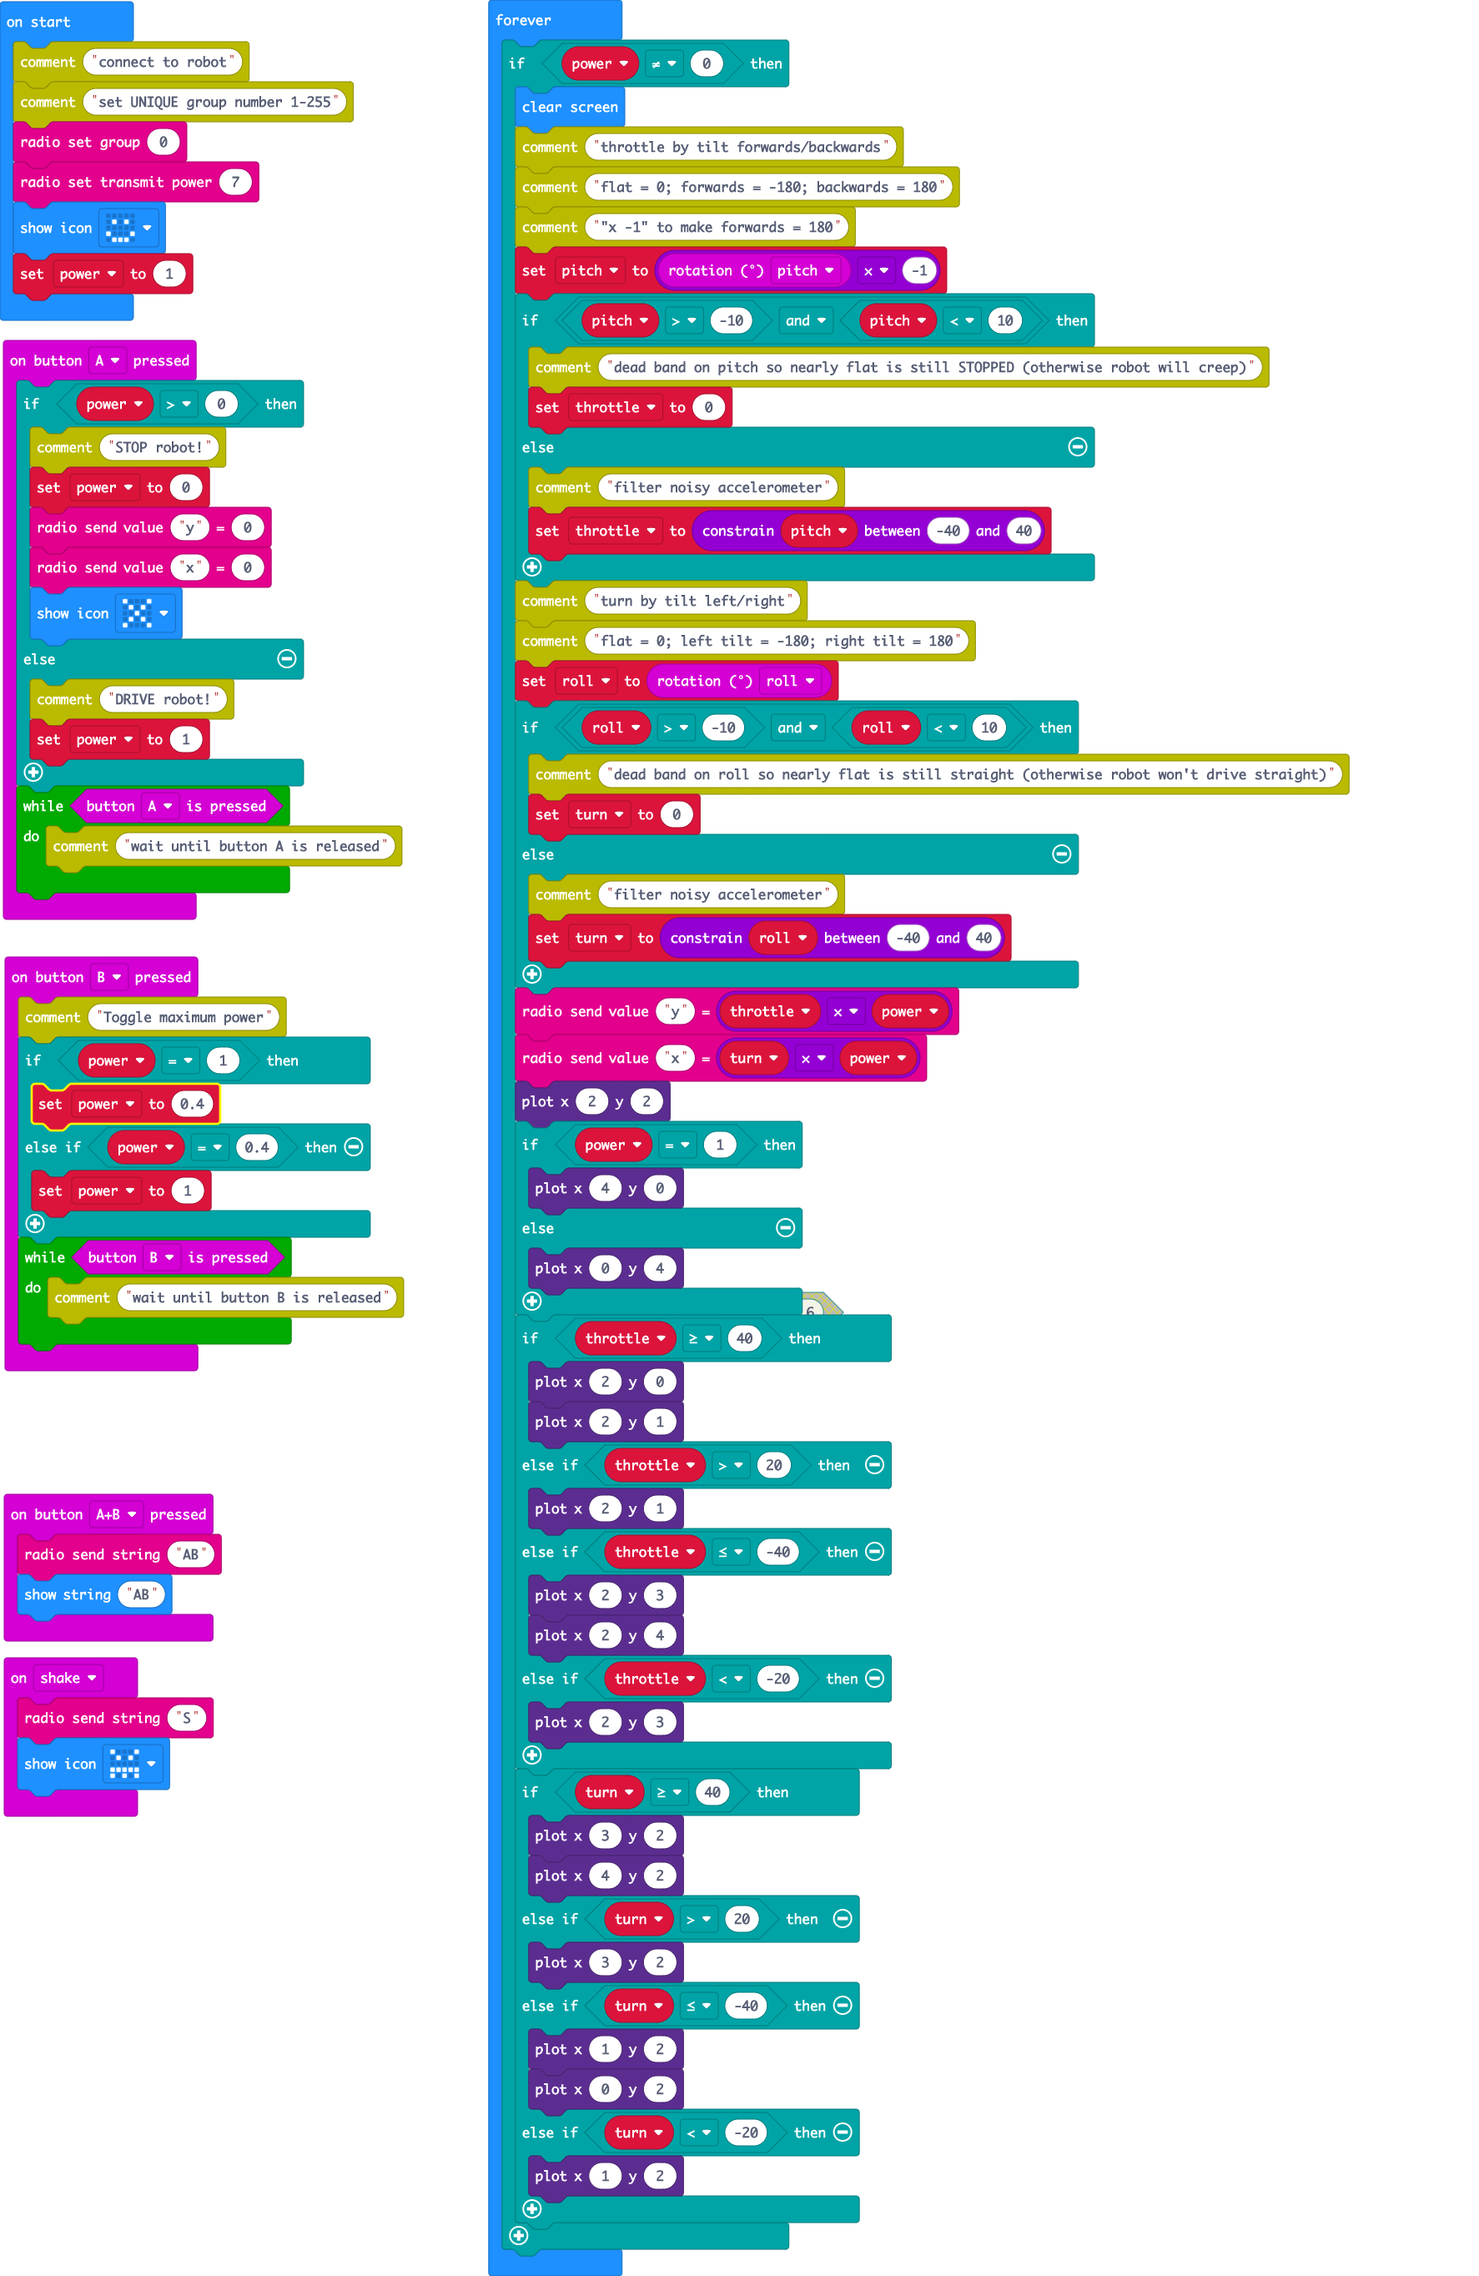
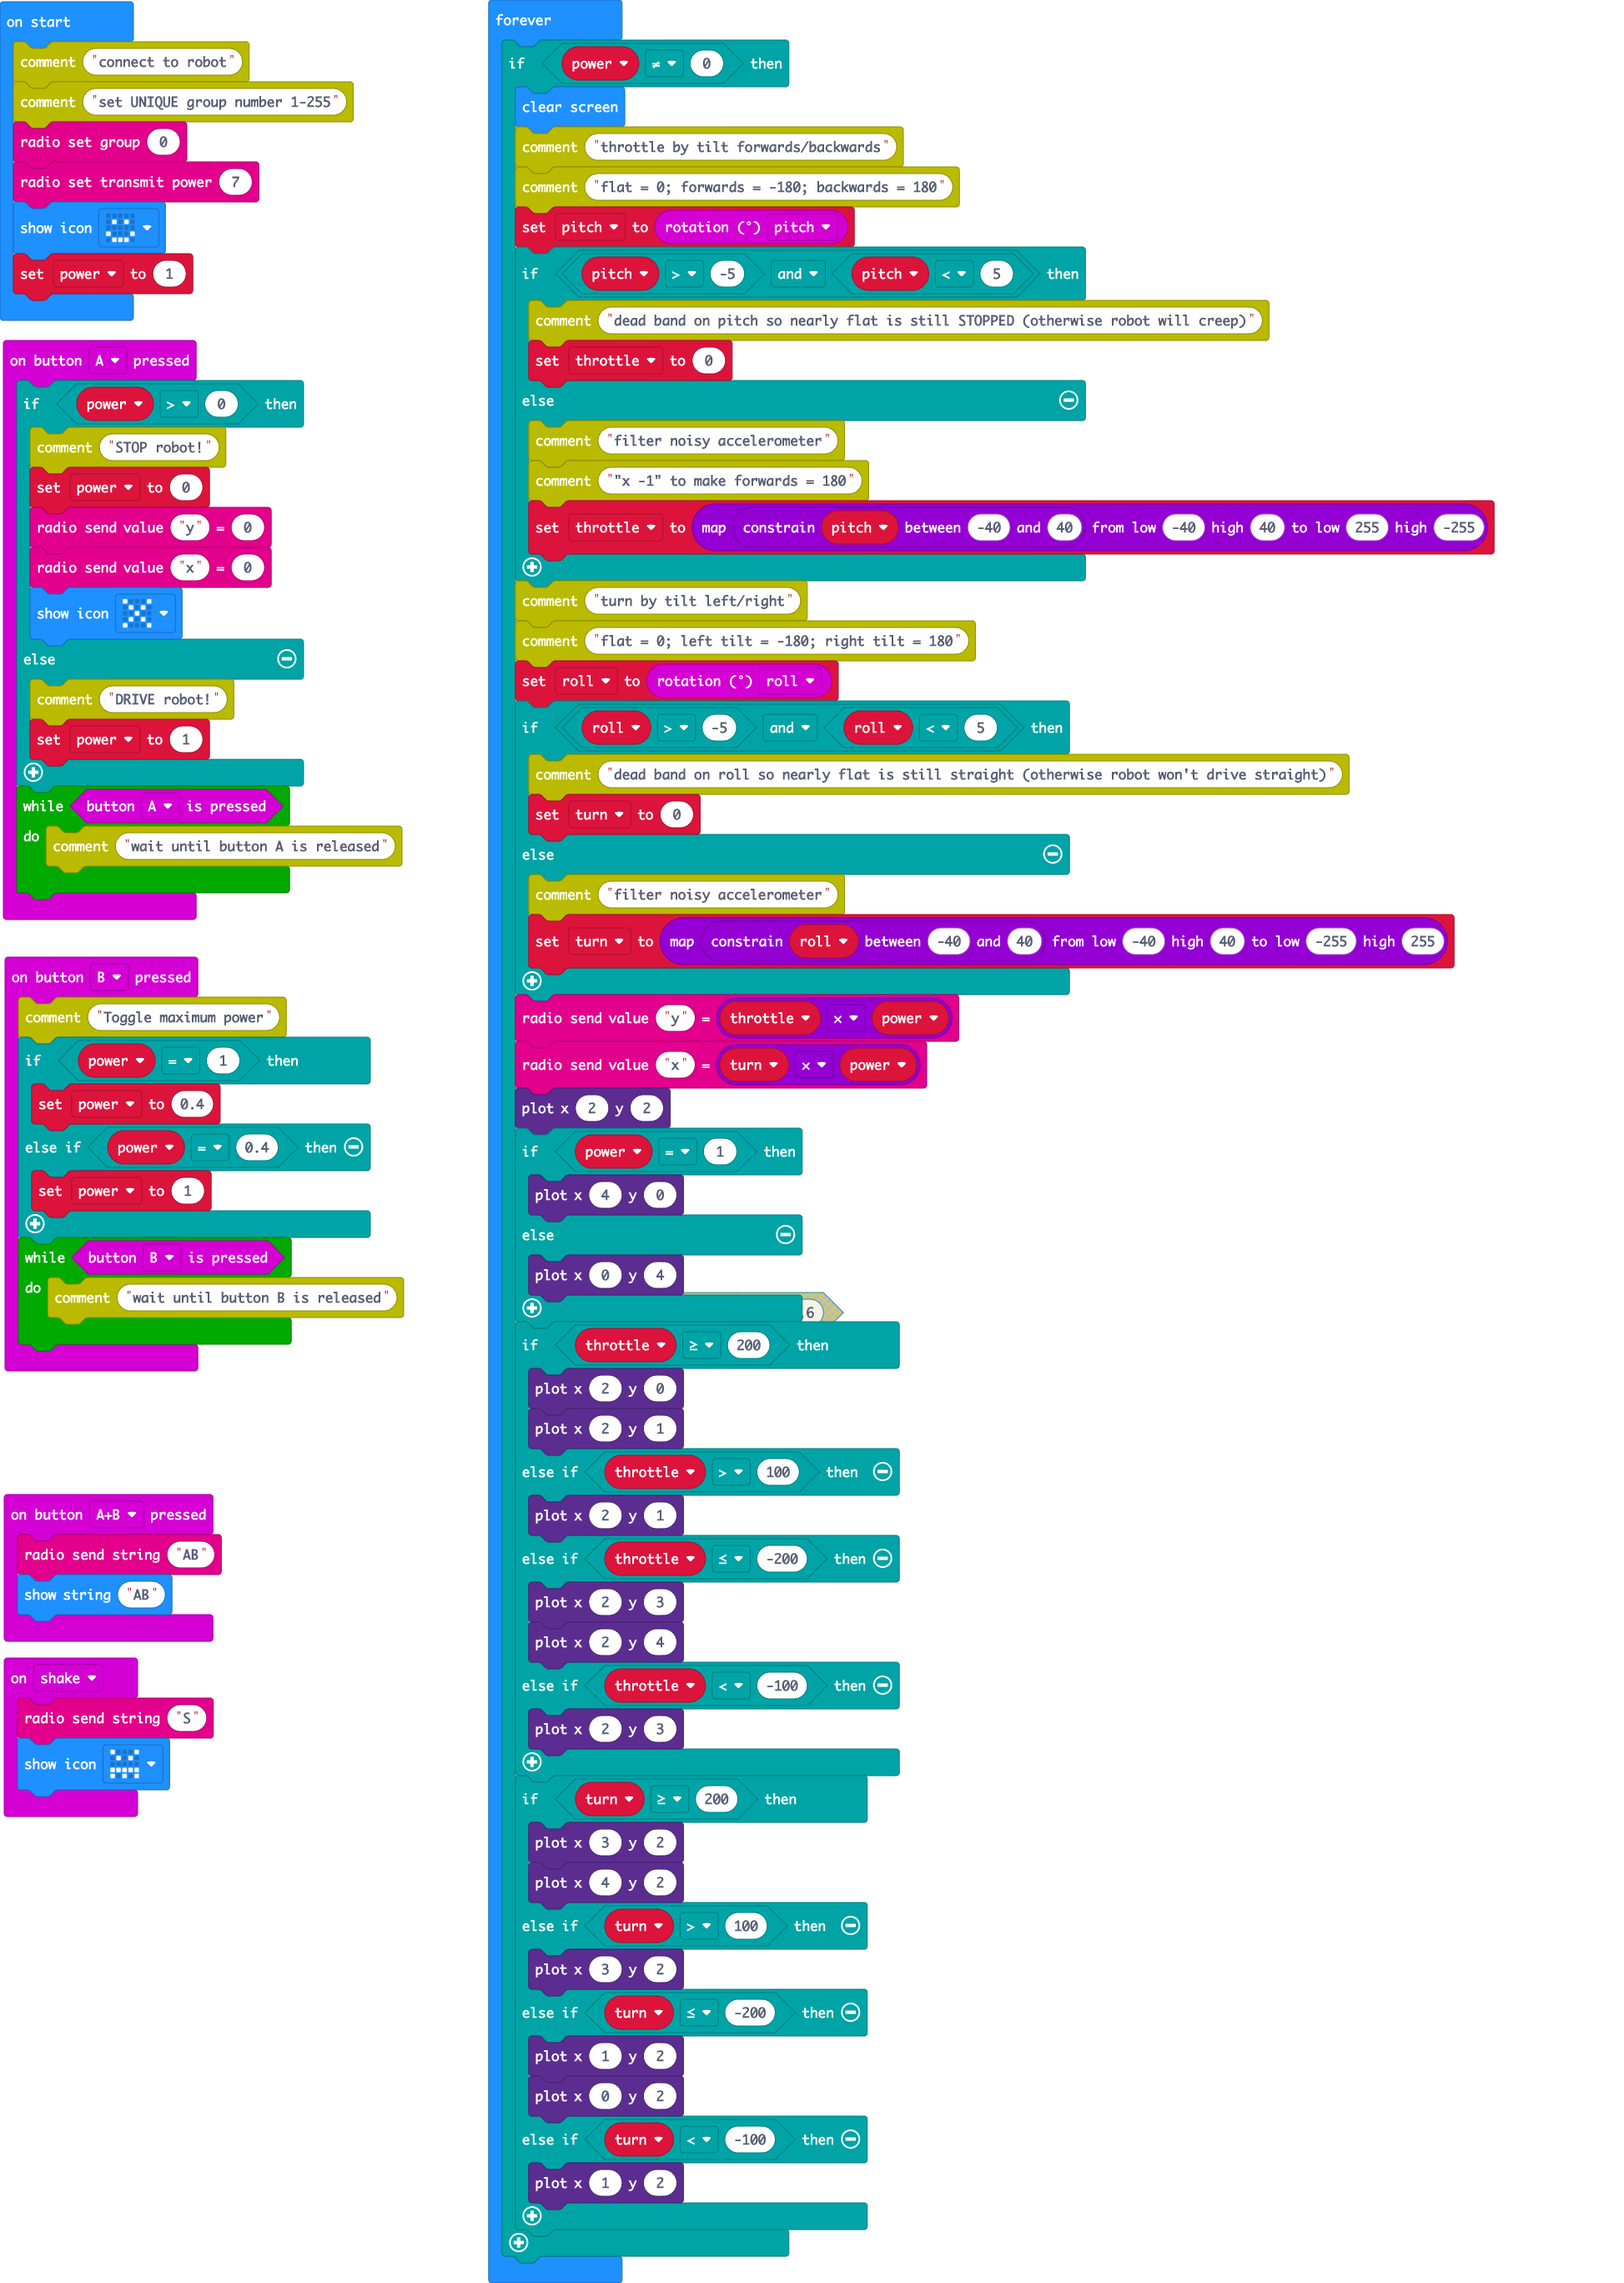
Update main.blocks, main.ts

Changed region(s): [[0.0, 0.0, 0.9306, 1.0], [0.0, 0.6543, 0.1551, 0.8101]]

diff --git a/main.ts b/main.ts
@@ -48,24 +48,24 @@ basic.forever(function () {
         basic.clearScreen()
         comment.comment("throttle by tilt forwards/backwards")
         comment.comment("flat = 0; forwards = -180; backwards = 180")
-        comment.comment("\"x -1\" to make forwards = 180")
-        pitch = input.rotation(Rotation.Pitch) * -1
-        if (pitch > -10 && pitch < 10) {
+        pitch = input.rotation(Rotation.Pitch)
+        if (pitch > -5 && pitch < 5) {
             comment.comment("dead band on pitch so nearly flat is still STOPPED (otherwise robot will creep)")
             throttle = 0
         } else {
             comment.comment("filter noisy accelerometer")
-            throttle = Math.constrain(pitch, -40, 40)
+            comment.comment("\"x -1\" to make forwards = 180")
+            throttle = Math.map(Math.constrain(pitch, -40, 40), -40, 40, 255, -255)
         }
         comment.comment("turn by tilt left/right")
         comment.comment("flat = 0; left tilt = -180; right tilt = 180")
         roll = input.rotation(Rotation.Roll)
-        if (roll > -10 && roll < 10) {
+        if (roll > -5 && roll < 5) {
             comment.comment("dead band on roll so nearly flat is still straight (otherwise robot won't drive straight)")
             turn = 0
         } else {
             comment.comment("filter noisy accelerometer")
-            turn = Math.constrain(roll, -40, 40)
+            turn = Math.map(Math.constrain(roll, -40, 40), -40, 40, -255, 255)
         }
         radio.sendValue("y", throttle * power)
         radio.sendValue("x", turn * power)
@@ -75,26 +75,26 @@ basic.forever(function () {
         } else {
             led.plot(0, 4)
         }
-        if (throttle >= 40) {
+        if (throttle >= 200) {
             led.plot(2, 0)
             led.plot(2, 1)
-        } else if (throttle > 20) {
+        } else if (throttle > 100) {
             led.plot(2, 1)
-        } else if (throttle <= -40) {
+        } else if (throttle <= -200) {
             led.plot(2, 3)
             led.plot(2, 4)
-        } else if (throttle < -20) {
+        } else if (throttle < -100) {
             led.plot(2, 3)
         }
-        if (turn >= 40) {
+        if (turn >= 200) {
             led.plot(3, 2)
             led.plot(4, 2)
-        } else if (turn > 20) {
+        } else if (turn > 100) {
             led.plot(3, 2)
-        } else if (turn <= -40) {
+        } else if (turn <= -200) {
             led.plot(1, 2)
             led.plot(0, 2)
-        } else if (turn < -20) {
+        } else if (turn < -100) {
             led.plot(1, 2)
         }
     }
